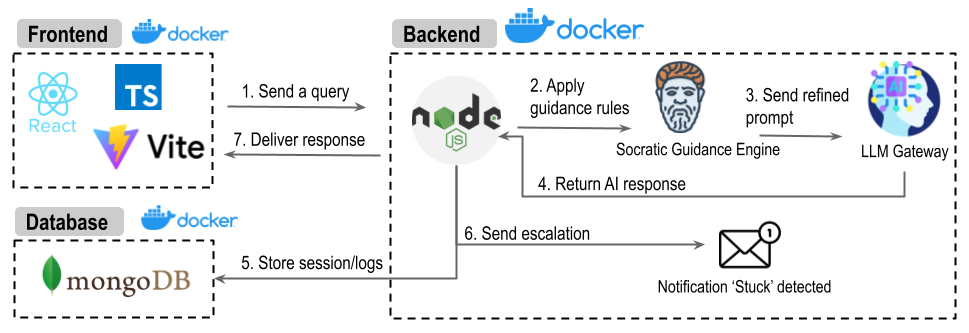
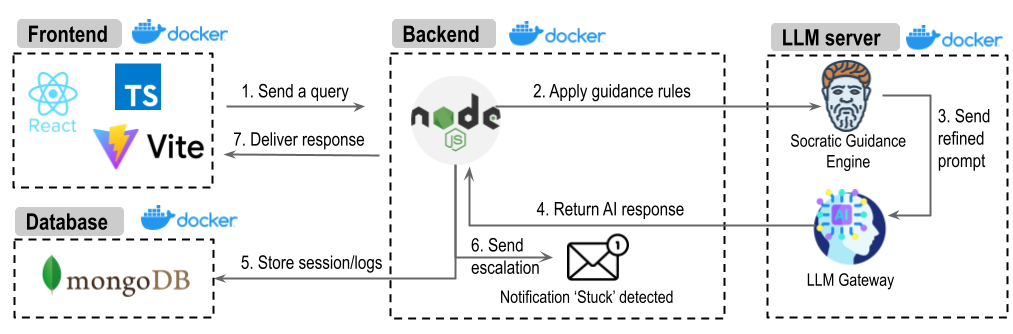
adjusting readme

diff --git a/README.md b/README.md
@@ -96,6 +96,7 @@ Successfully built abc123def456
 Successfully tagged llm-junior-developer_backend:latest
 Starting mongodb ... done
 Starting backend ... done
+Starting llmservice ... done
 Starting frontend ... done
 ```
 
@@ -111,24 +112,26 @@ Open your browser to **http://localhost:5173**
 ### 6. Stop Services
 ```bash
 $ docker-compose down
-Stopping frontend  ... done
-Stopping backend   ... done
-Stopping mongodb   ... done
-Removing frontend  ... done
-Removing backend   ... done
-Removing mongodb   ... done
+Stopping frontend     ... done
+Stopping llmservice   ... done
+Stopping backend      ... done
+Stopping mongodb      ... done
+Removing frontend     ... done
+Removing backend      ... done
+Removing mongodb      ... done
 Removing network llm-junior-developer_default
 ```
 
 To also remove the database volume:
 ```bash
 $ docker-compose down -v
-Stopping frontend  ... done
-Stopping backend   ... done
-Stopping mongodb   ... done
-Removing frontend  ... done
-Removing backend   ... done
-Removing mongodb   ... done
+Stopping frontend     ... done
+Stopping llmservice   ... done
+Stopping backend      ... done
+Stopping mongodb      ... done
+Removing frontend     ... done
+Removing backend      ... done
+Removing mongodb      ... done
 Removing network llm-junior-developer_default
 Removing volume llm-junior-developer_mongodb_data
 ```
@@ -139,7 +142,9 @@ Removing volume llm-junior-developer_mongodb_data
 |---------|------|-------------|
 | MongoDB | 27017 | Database |
 | Backend | 5001 | Node.js API server |
+| LLM server | 8000 | Python server |
 | Frontend | 5173 | React + Vite dev server |
+
 
 ## Local Development Setup
 
